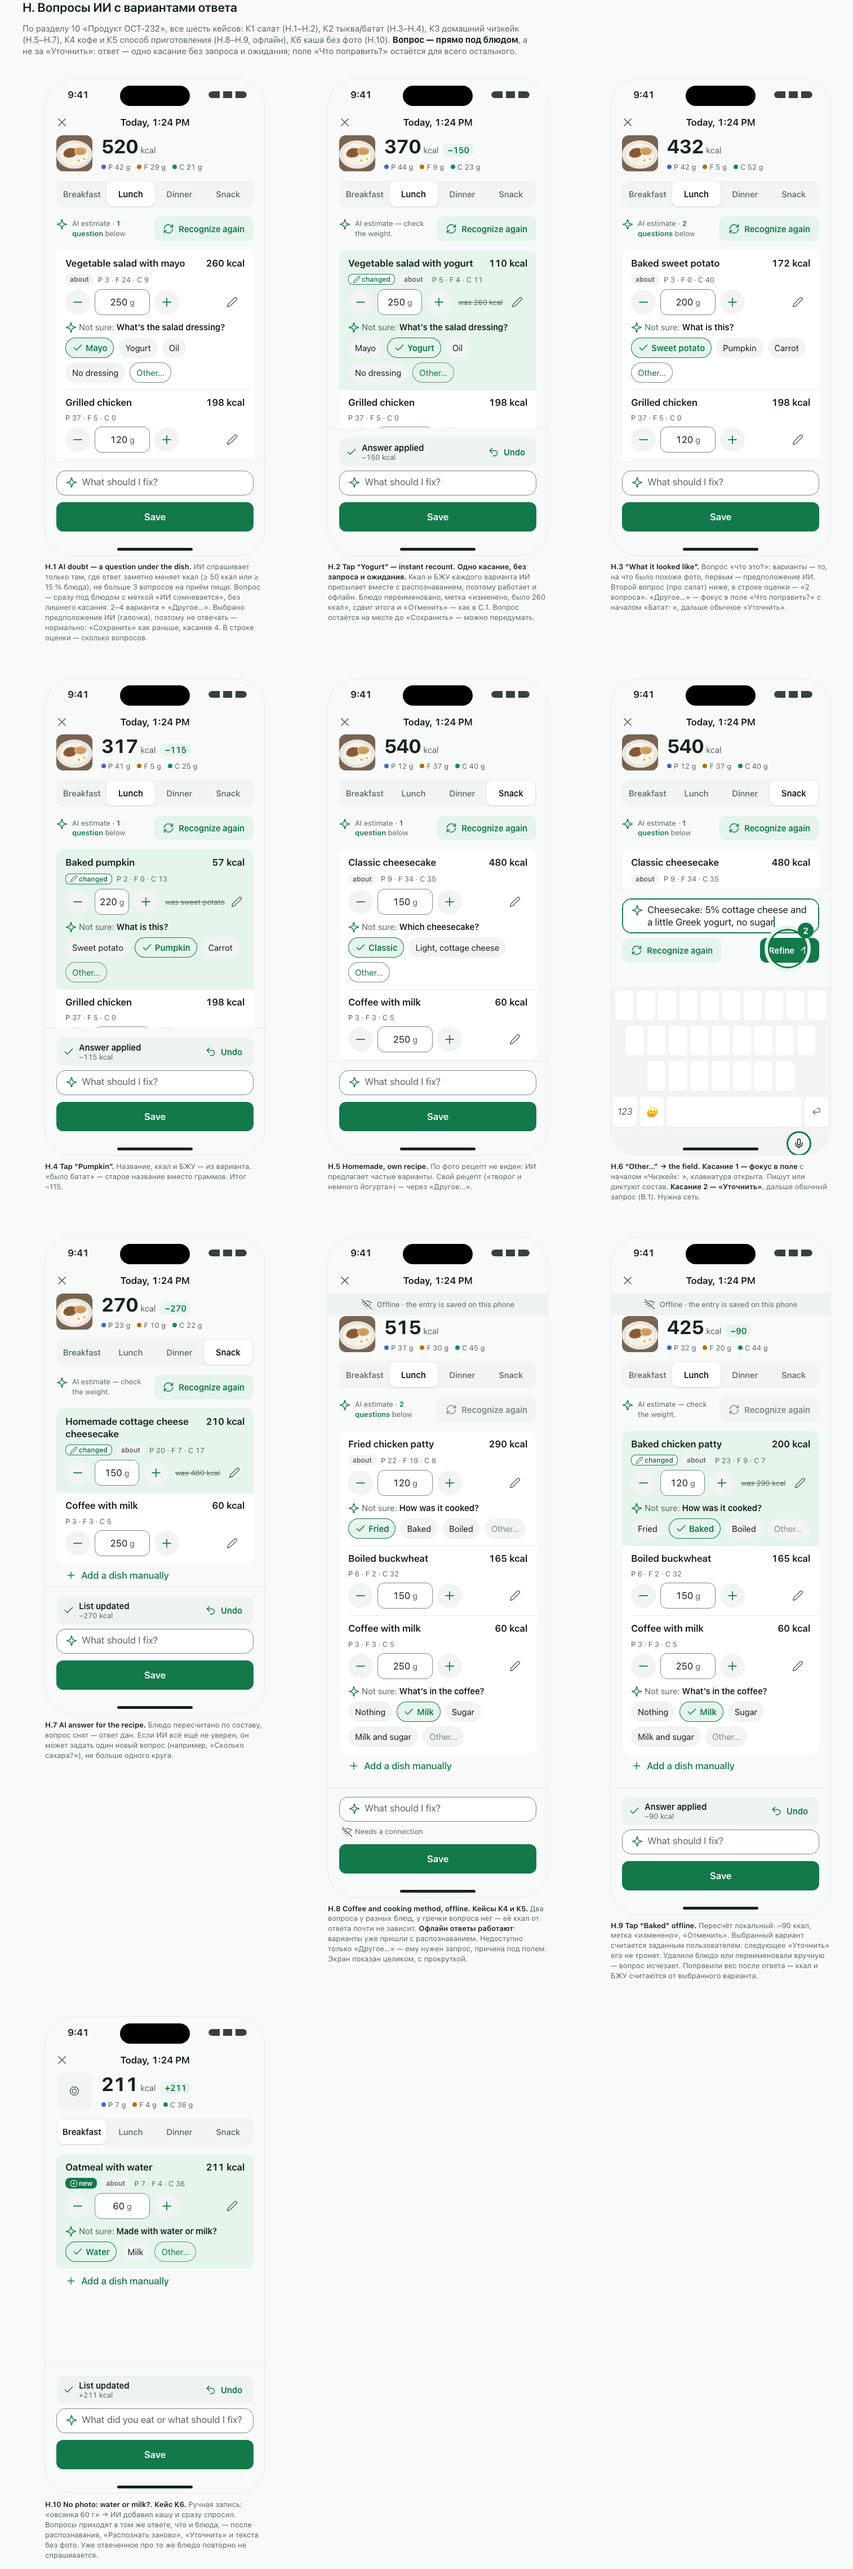
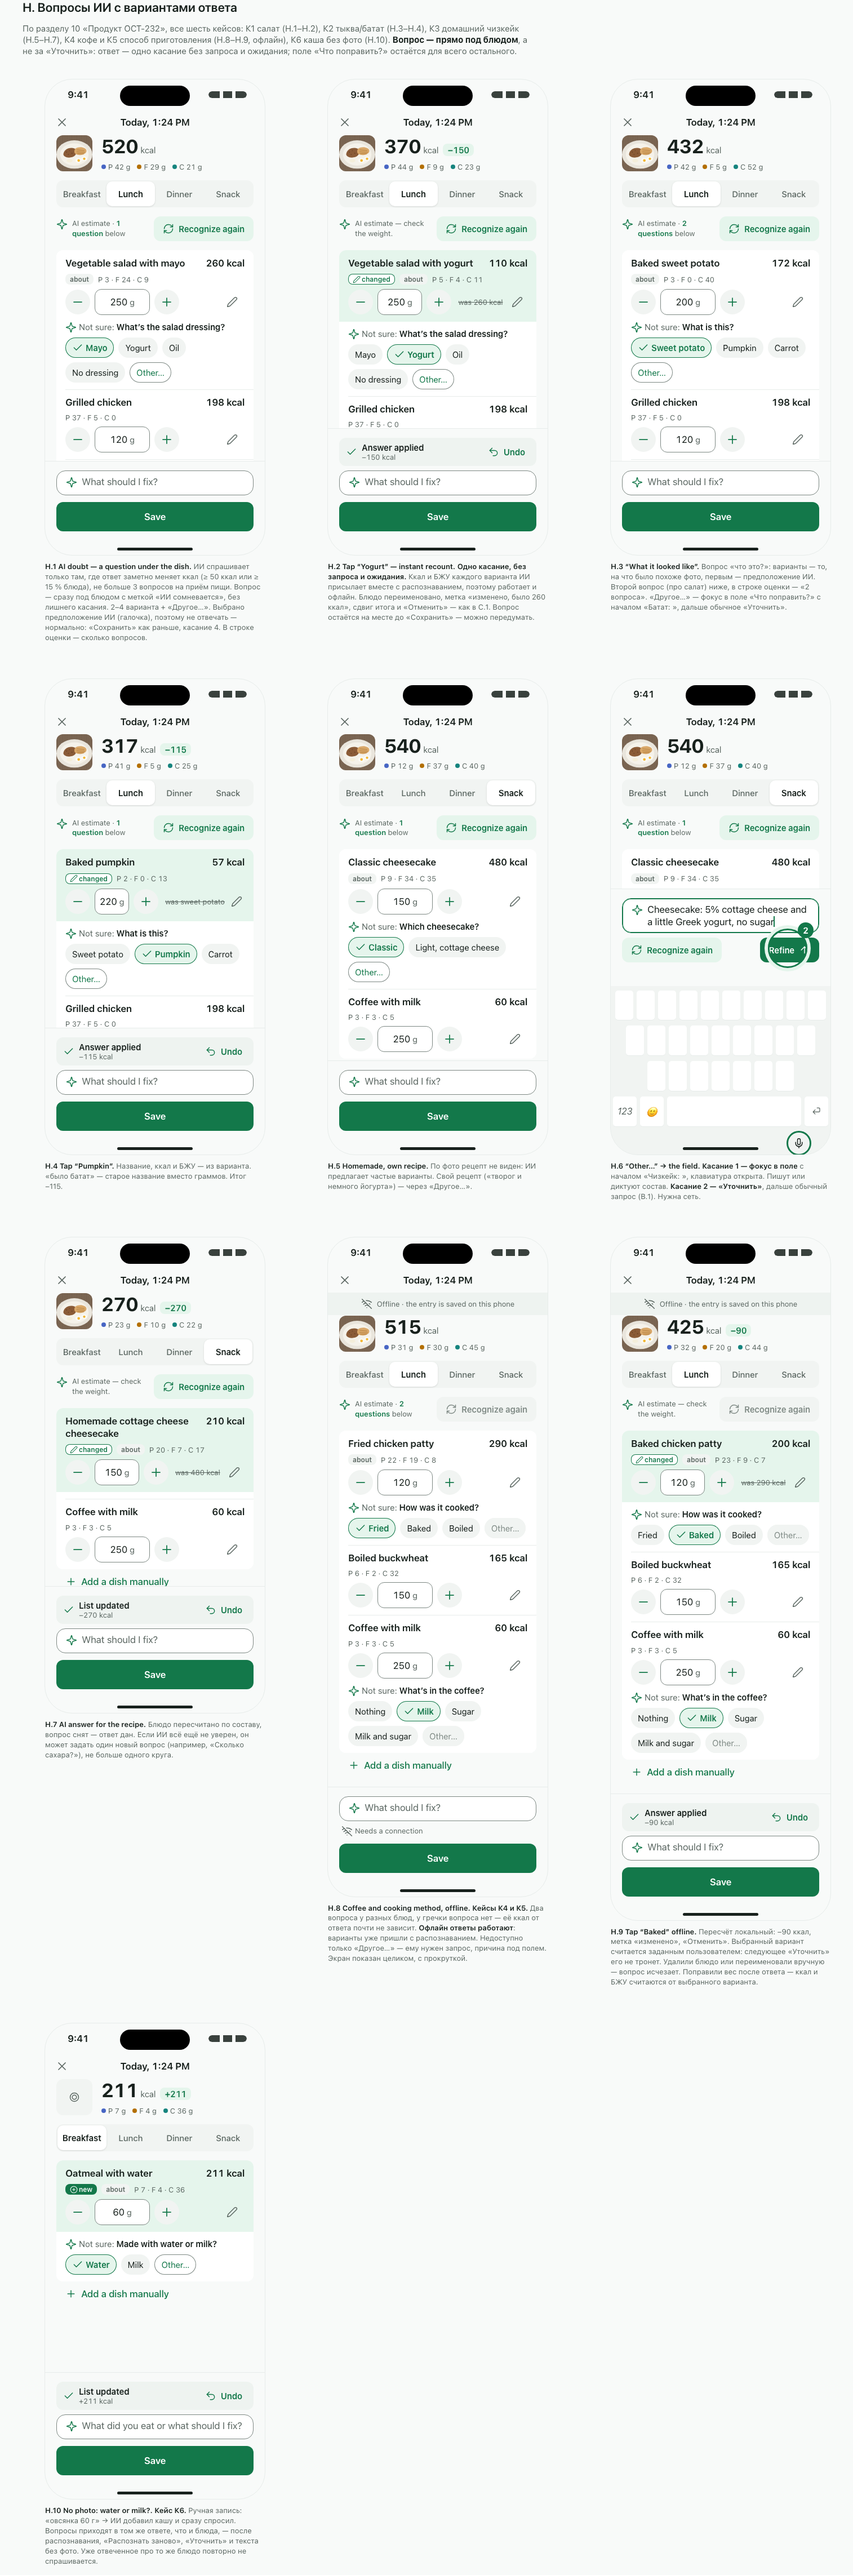
OCT-234 Highlight only the changed dish row, not the question block under it

diff --git a/docs/design/oct-234/prototype.html b/docs/design/oct-234/prototype.html
@@ -429,7 +429,9 @@ body{padding:var(--space-10) var(--space-8)}
 .group.locked{opacity:var(--disabled-opacity,.5);pointer-events:none}
 .slow{font-size:var(--text-footnote-size);line-height:var(--text-footnote-lh);color:var(--color-text-secondary);padding:0 var(--space-1)}
 /* result: changed rows, removed line, delta, undo strip */
-.dish.chg{background:var(--color-accent-soft)}
+.dish-hl{display:flex;flex-direction:column;gap:var(--space-2)}
+/* only the dish row is highlighted, a question block under it stays on the card surface */
+.dish.chg .dish-hl{margin:calc(-1 * var(--space-3)) calc(-1 * var(--space-4)) 0;padding:var(--space-3) var(--space-4);background:var(--color-accent-soft)}
 .badge.new{background:var(--color-accent);color:var(--color-on-accent)}
 .badge.mod{background:var(--color-surface);color:var(--color-accent);box-shadow:inset 0 0 0 1px var(--color-accent)}
 .was{margin-left:var(--space-1);font-size:var(--text-footnote-size);color:var(--color-text-secondary);text-decoration:line-through}
@@ -603,9 +605,9 @@ function dish(d, o={}){
   const mark = o.isNew ? `<span class="badge new" aria-label="${T.srNew}">${I('plus-c')}${T.newB}</span>`
     : o.was ? `<span class="badge mod" aria-label="${T.srMod(o.was)}">${I('pencil')}${T.modB}</span>` : '';
   const was = o.was ? `<span class="was" aria-hidden="true">${T.was(o.was)}</span>` : '';
-  return `<div class="dish ${mark?'chg':''}"><div class="dish-top"><span class="name">${d.n}</span><span class="kc num">${d.k} ${T.kcal}</span></div>
+  return `<div class="dish ${mark?'chg':''}"><div class="dish-hl"><div class="dish-top"><span class="name">${d.n}</span><span class="kc num">${d.k} ${T.kcal}</span></div>
     <div class="dish-meta">${mark}${badge(d.conf)}<span>${T.P} ${d.p} · ${T.F} ${d.f} · ${T.C} ${d.c}</span></div>
-    <div class="dish-ctl"><span class="step">${I('minus')}</span><span class="wv">${d.g}<small>${T.g}</small></span><span class="step">${I('plus')}</span>${was}<span class="more">${I('pencil','sm')}</span></div>${o.ask||''}</div>`;
+    <div class="dish-ctl"><span class="step">${I('minus')}</span><span class="wv">${d.g}<small>${T.g}</small></span><span class="step">${I('plus')}</span>${was}<span class="more">${I('pencil','sm')}</span></div></div>${o.ask||''}</div>`;
 }
 /* AI question under a dish: q text, options, index of the selected one (AI guess by default), last chip = free text */
 const ask = (q, opts, on=0, last=T.other, lastCls='other') => `<div class="ask" role="radiogroup" aria-label="${q}"><div class="ask-q">${I('spark','sm')}<span><span class="ask-l">${T.notSure}:</span> ${q}</span></div><div class="chips">${opts.map((o,i)=>`<span class="chip ${i===on?'on':''}" role="radio" aria-checked="${i===on}">${i===on?I('check'):''}${o}</span>`).join('')}<span class="chip ${lastCls}">${last}</span></div></div>`;
